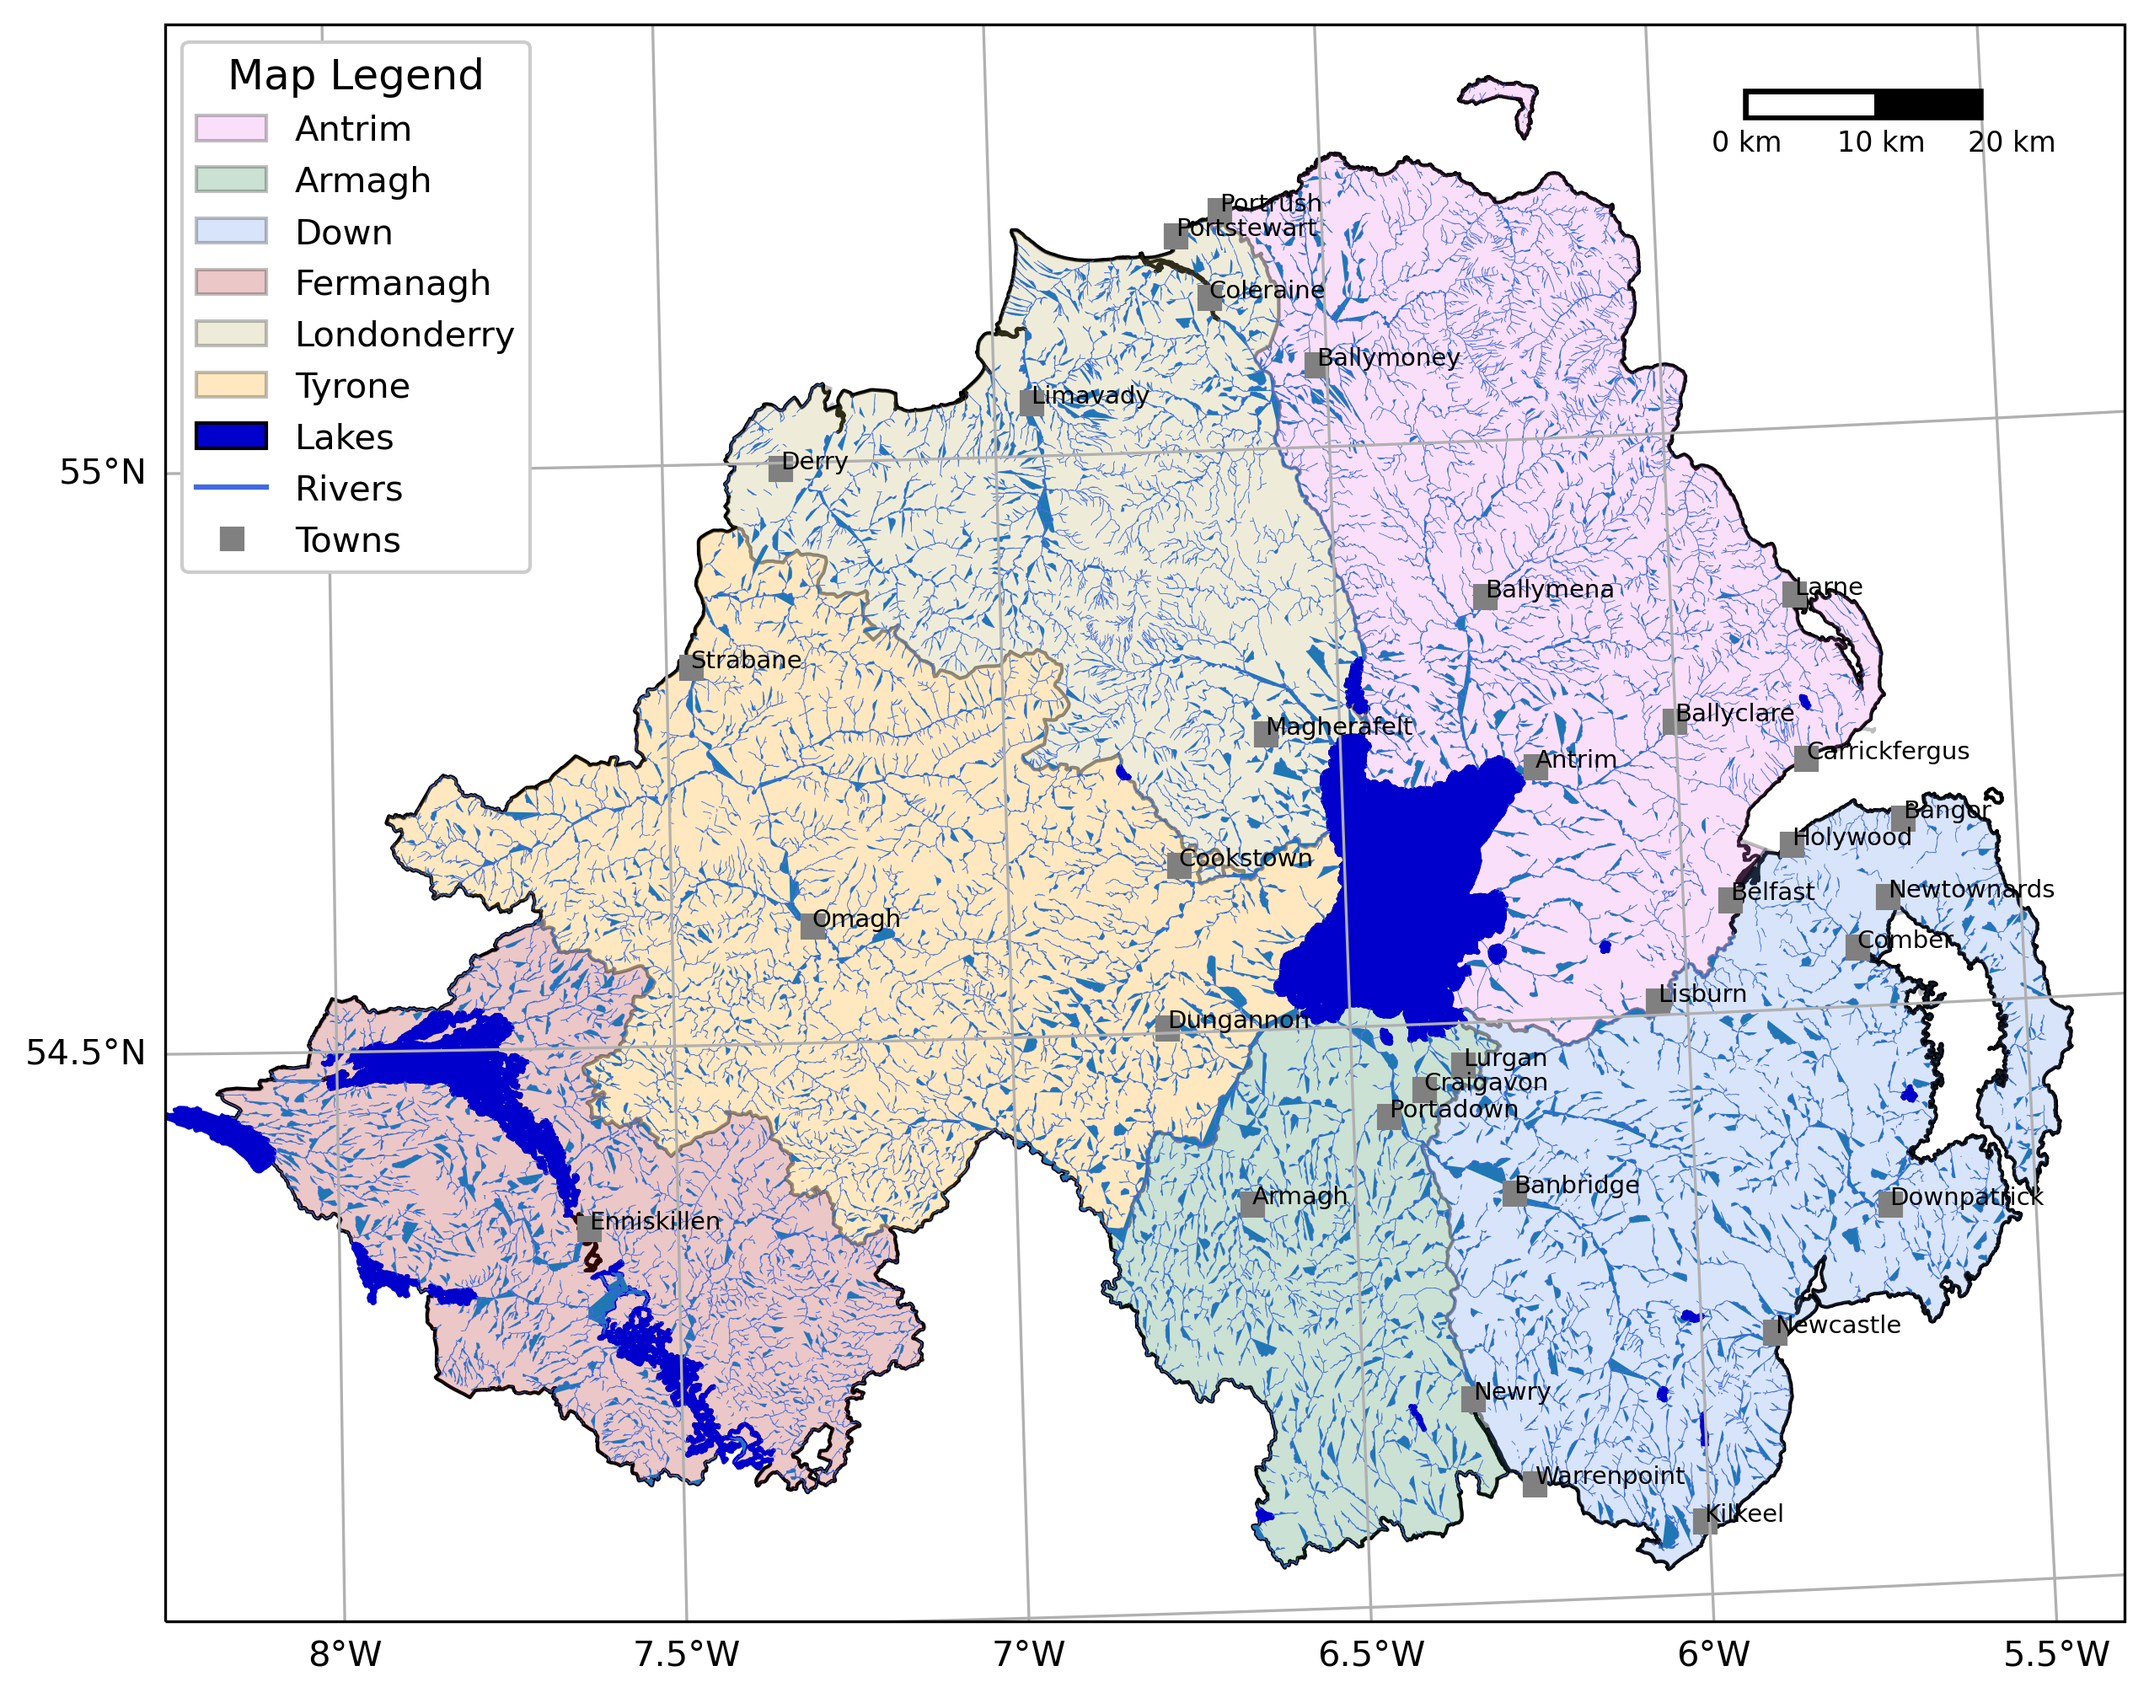
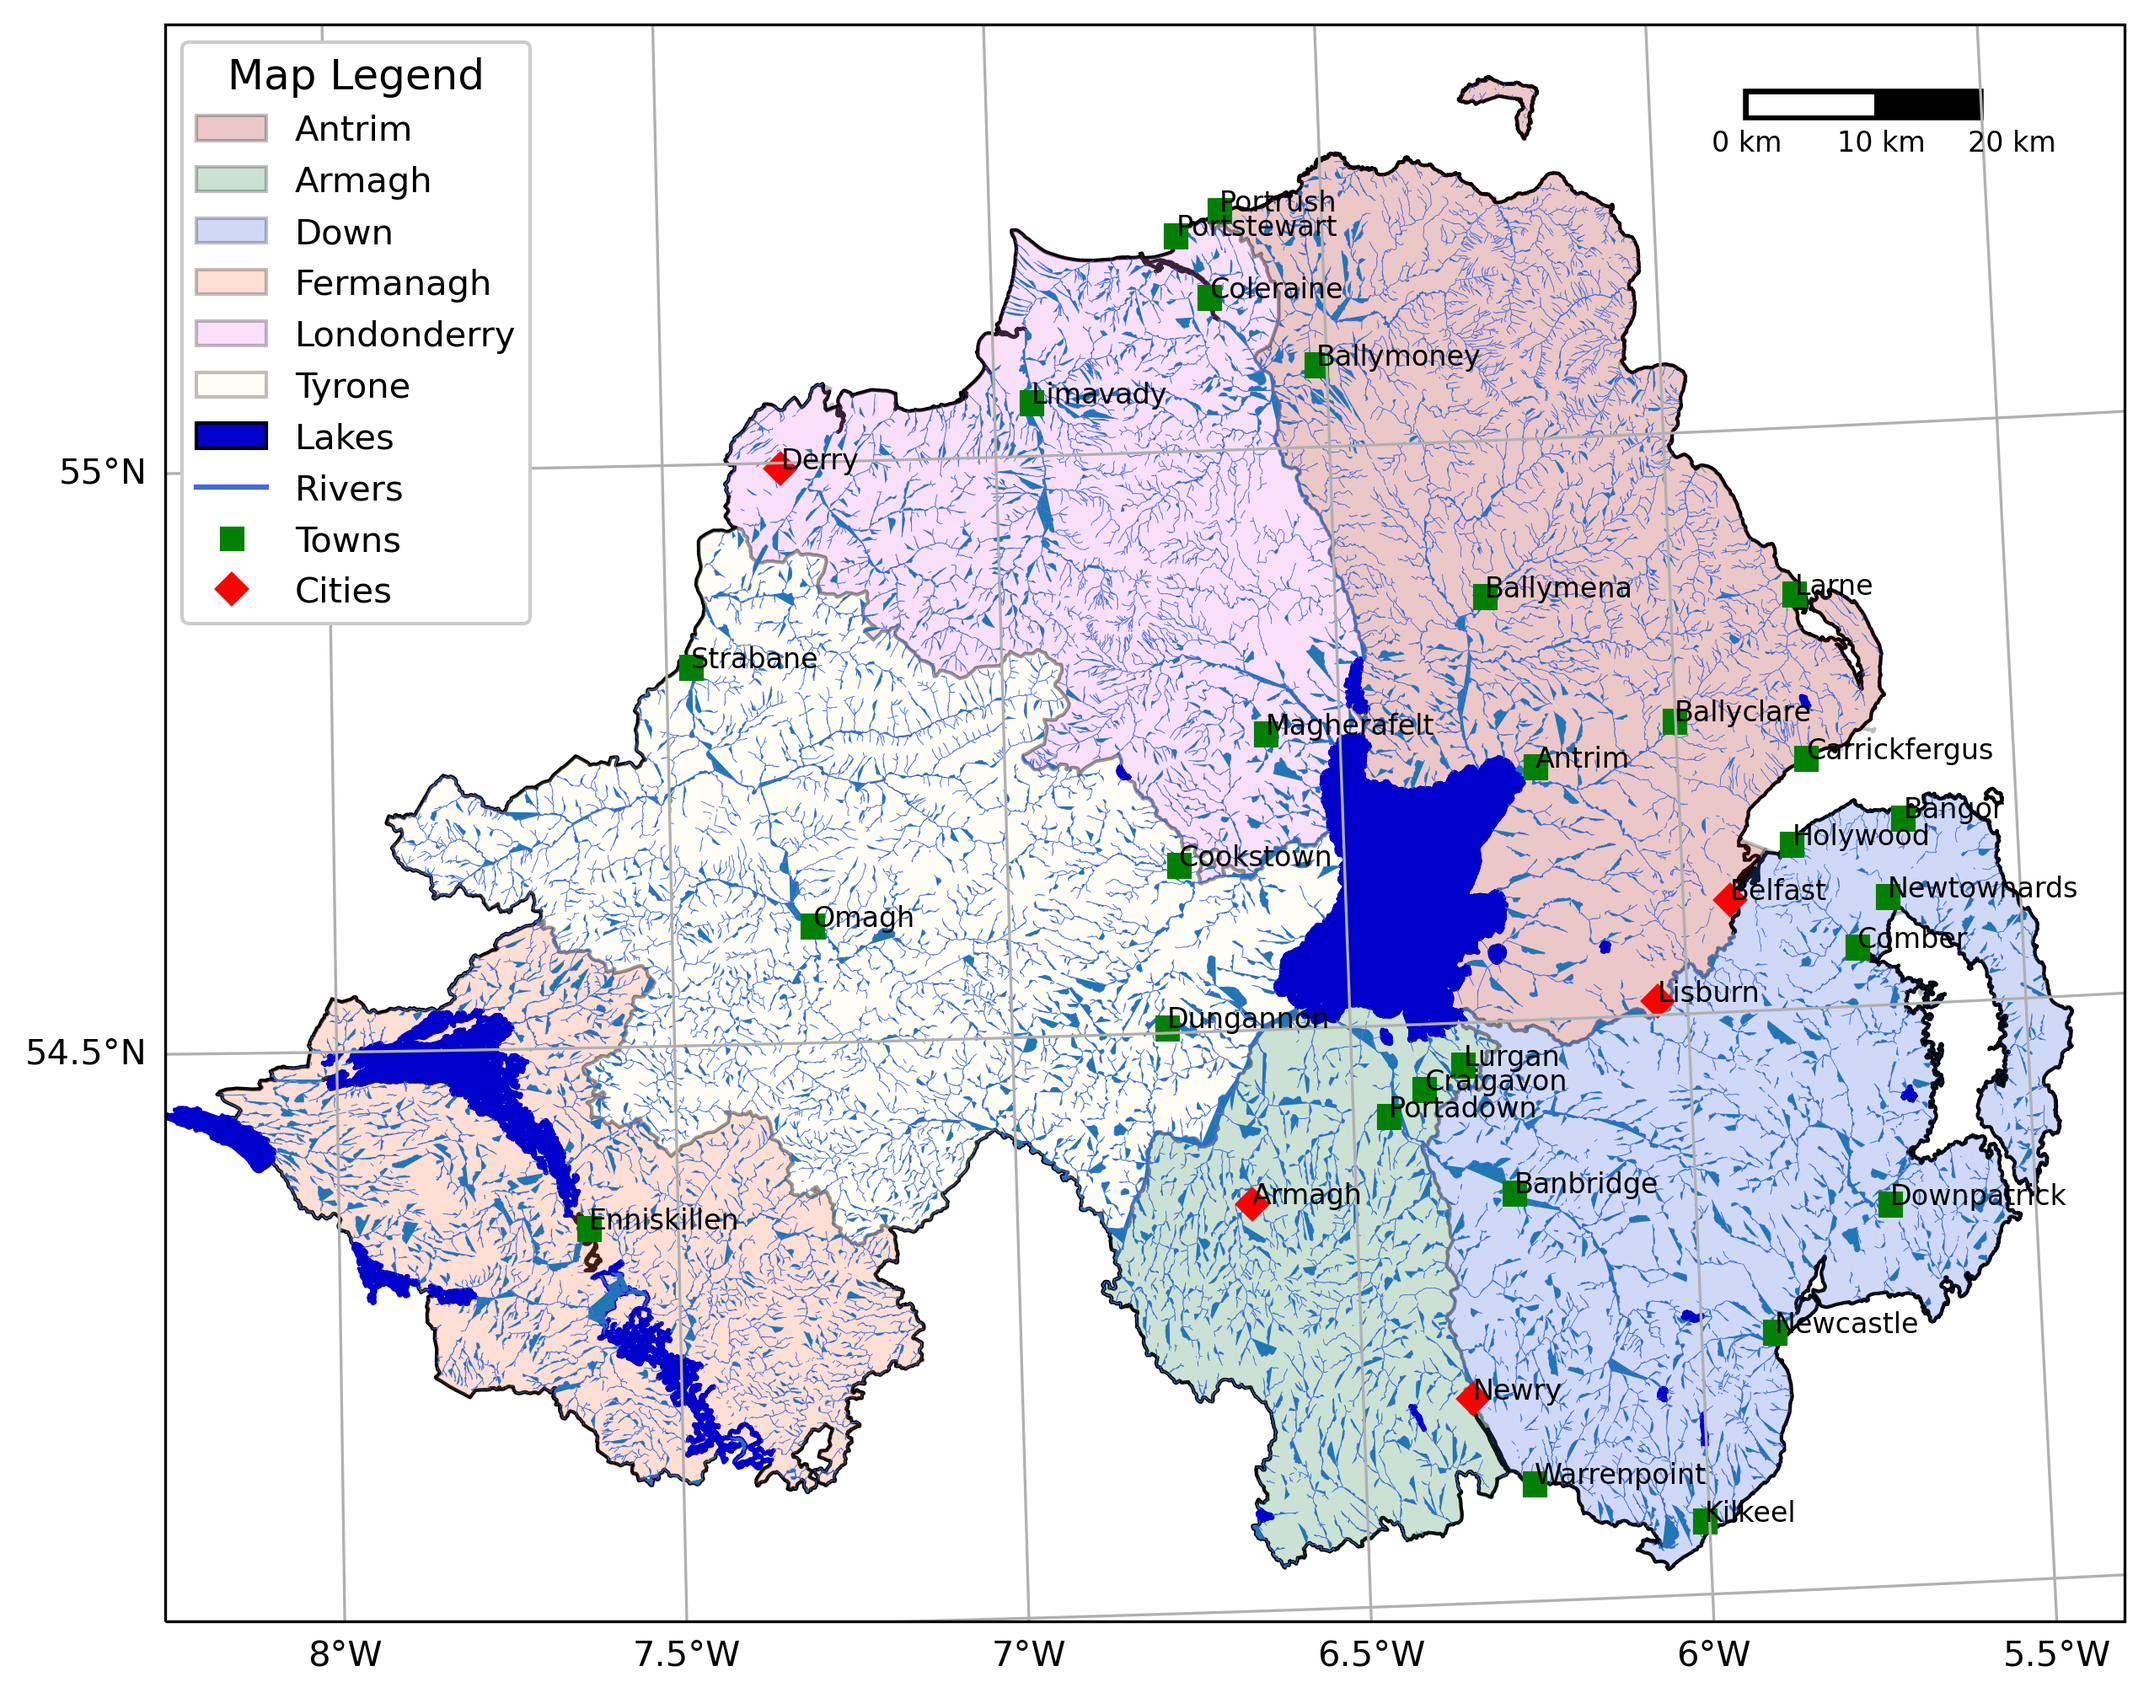
Updated script to differentiate towns and cities
-use intermediate variable and .loc to select only towns and only cities to then add to ax.plot()
-add cities to legend handles
-update gridline locations and update legend title

diff --git a/Week2/practical2_script.py b/Week2/practical2_script.py
@@ -98,7 +98,12 @@ river_feat = ShapelyFeature(rivers['geometry'],  # first argument is the geometr
 ax.add_feature(river_feat)  # add the collection of features to the map
 
 # ShapelyFeature creates a polygon, so for point data we can just use ax.plot()
-town_handle = ax.plot(towns.geometry.x, towns.geometry.y, 's', color='0.5', ms=6, transform=myCRS)
+# Use intermediate variable and .loc to select only towns and only cities to then add to ax.plot()
+just_towns = towns.loc[towns['STATUS'] == 'Town']
+town_handle = ax.plot(just_towns.geometry.x, just_towns.geometry.y, 's', color='g', ms=6, transform=myCRS)
+
+just_cities = towns.loc[towns['STATUS'] == 'City']
+city_handle = ax.plot(just_cities.geometry.x, just_cities.geometry.y, 'D', color='r', ms=6, transform=myCRS)
 
 # generate a list of handles for the county datasets
 county_handles = generate_handles(counties.CountyName.unique(), county_colors, alpha=0.25)
@@ -113,17 +118,17 @@ river_handle = [mlines.Line2D([], [], color='royalblue')]  # have to make this a
 nice_names = [name.title() for name in county_names]
 
 # ax.legend() takes a list of handles and a list of labels corresponding to the objects you want to add to the legend
-handles = county_handles + water_handle + river_handle + town_handle
-labels = nice_names + ['Lakes', 'Rivers', 'Towns']
+handles = county_handles + water_handle + river_handle + town_handle + city_handle
+labels = nice_names + ['Lakes', 'Rivers', 'Towns', 'Cities']
 
-leg = ax.legend(handles, labels, title='Legend', title_fontsize=12,
+leg = ax.legend(handles, labels, title='Map Legend', title_fontsize=12,
                 fontsize=10, loc='upper left', frameon=True, framealpha=1)
 
 gridlines = ax.gridlines(draw_labels=True,  # draw  labels for the grid lines
                          xlocs=[-8, -7.5, -7, -6.5, -6, -5.5],  # add longitude lines at 0.5 deg intervals
                          ylocs=[54, 54.5, 55, 55.5])  # add latitude lines at 0.5 deg intervals
-gridlines.left_labels = False  # turn off the left-side labels
-gridlines.bottom_labels = False  # turn off the bottom labels
+gridlines.right_labels = False  # turn off the right-side labels
+gridlines.top_labels = False  # turn off the top labels
 
 # add the text labels for the towns
 for ind, row in towns.iterrows():  # towns.iterrows() returns the index and row
